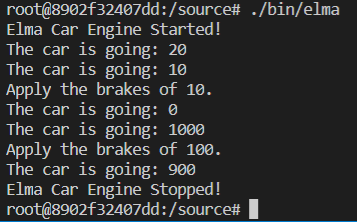
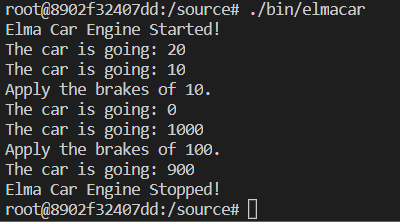
update the output results

Changed region(s): [[0.0, 0.0, 0.9552, 1.0]]

diff --git a/README.md b/README.md
@@ -1,9 +1,9 @@
-Elma Final Project
+Elma Car Final Project
 ===
 
 Goal
 ===
-Extend the Elma car to use a more realistic simulation of a car's velocity including Radio, brakes, engine, headlights, air conditioning, and a driver that can change gears, speed up, slow down, and stop. 
+Extend the Elma car to use a more realistic simulation of a car's velocity including radio, brakes, engine, headlights, air conditioning, and a driver that can change gears, speed up, slow down, and stop. 
 
 Info
 ===
@@ -22,9 +22,9 @@ Milestones
 |1. Making new repo start as a fork of Elma_Project |03.15.19       |Completed  |   03.21.19     |
 |2. Update code library for Car                     |03.18.19       |Completed  |   03.22.19     |
 |3. Build an example or two to show it works        |03.18.19       |Completed  |   03.22.19     |
-|4. Test Car working                                |03.22.19       |IP  |   03.22.19     |
-|5. Complete the API documentation                  |03.22.19       |IP  |   03.23.19     |
-|6. Complete final project                          |03.22.19       |IP  |   03.23.19     |
+|4. Test Car working                                |03.22.19       |Completed  |   03.22.19     |
+|5. Complete the API documentation                  |03.22.19       |Completed  |   03.23.19     |
+|6. Complete final project                          |03.22.19       |Completed  |   03.23.19     |
 
 
 Installation
@@ -42,13 +42,13 @@ Terminal
 Execution
 ---
 To run the project, type
-    bin/elmacar
+    ./bin/elmacar
 
 
 Architecture
 ===
 
-As new to C++, I designed this ElmaCar project as simple as possible, to demonstrate the knowledge I gained after taking the class. The project was designed as the ElmaCar is the main control the car. It had all the functions included in the helper file that can turn on and off radio, the lights, air conditioning; the engine when it turned on, it can control the brake to stop the car, the wheel to accelebrate or decelebrate the car. 
+As new to C++, I designed this ElmaCar project as simple as possible, to demonstrate the knowledge I gained after taking this class. The project was designed as the ElmaCar is the main of the car, it included all the function in the helper file that can turn on and off radio, the lights, air conditioning; the engine when it turned on, it can control the brake to stop the car, the wheel to accelebrate or decelebrate the car. 
 
 ![Design][design]
 
@@ -115,7 +115,7 @@ The radio can be adjusted with the volume on and off depending on the amount vol
 Results
 ===
 
-When running the bin/elmacar, it will printout the output to tell us when the car started, stopped, accelebrated, decelebrated, braked, and etc... To test the code working, I manually update the main.cc file to get the speed or volume amount, or AC amount. 
+After running ./bin/elmacar, it will printout the output on console window to tell us when the car started, stopped, accelebrated, decelebrated, braked, and etc... To test the code working, I manually update the main.cc file to get the speed, volume amount, AC amount...
 
 Test
 ---
@@ -161,7 +161,7 @@ images/test_output1.png
 
 Enhancement 
 ---
-1. Add UDP messages for the elma that can send message back and forth the information about the Car 
+1. Add UDP messages for elma that can send message back and forth the information about the Car 
 1. Update the car to be able to change gear with diffent amount of gas pedal pressed
 1. Update the road condition and automate the car to follow the road
 1. Test on real car instead of simulation
